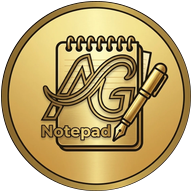
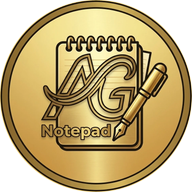
refactor: improve APK download handling and UI
- Implement error handling and state management for APK downloads in UpdateModal.
- Update CI/CD build scripts for versioning.
- Add icon generation utility enhancements.
- Update environment variable configuration.

diff --git a/android/app/src/main/java/com/abujar/agnotepad/MainActivity.kt b/android/app/src/main/java/com/abujar/agnotepad/MainActivity.kt
@@ -4,10 +4,13 @@ import android.Manifest
 import android.annotation.SuppressLint
 import android.app.Activity
 import android.app.DownloadManager
+import android.content.ClipData
 import android.content.ContentValues
 import android.content.Context
 import android.content.Intent
+import android.content.pm.PackageInfo
 import android.content.pm.PackageManager
+import android.content.pm.Signature
 import android.net.Uri
 import android.os.Build
 import android.os.Bundle
@@ -439,7 +442,7 @@ class MainActivity : Activity() {
                             }?.takeIf { it.isNotBlank() } ?: fallbackName
 
                             val dmUri = dm.getUriForDownloadedFile(downloadId)
-                            lastDownloadedUri = dmUri
+                            lastDownloadedUri = dmUri ?: localUriStr?.let { Uri.parse(it) }
                             lastDownloadedFileName = resolvedName
 
                             val finalBytes = total.coerceAtLeast(downloaded)
@@ -602,12 +605,53 @@ class MainActivity : Activity() {
         }
     }
 
+    private fun isZipApkHeader(file: File): Boolean {
+        return try {
+            file.inputStream().use { input ->
+                val header = ByteArray(4)
+                input.read(header) == 4 &&
+                    header[0] == 0x50.toByte() &&
+                    header[1] == 0x4B.toByte() &&
+                    header[2] == 0x03.toByte() &&
+                    header[3] == 0x04.toByte()
+            }
+        } catch (_: Exception) {
+            false
+        }
+    }
+
+    @Suppress("DEPRECATION")
+    private fun extractSignatureHexSet(info: PackageInfo?): Set<String> {
+        if (info == null) return emptySet()
+        val sigs: Array<Signature>? = if (Build.VERSION.SDK_INT >= Build.VERSION_CODES.P) {
+            val signingInfo = info.signingInfo
+            if (signingInfo == null) {
+                null
+            } else if (signingInfo.hasMultipleSigners()) {
+                signingInfo.apkContentsSigners
+            } else {
+                signingInfo.signingCertificateHistory
+            }
+        } else {
+            info.signatures
+        }
+        return sigs?.map { it.toCharsString() }?.toSet() ?: emptySet()
+    }
+
+    @Suppress("DEPRECATION")
+    private fun getPackageLongVersionCode(info: PackageInfo): Long {
+        return if (Build.VERSION.SDK_INT >= Build.VERSION_CODES.P) {
+            info.longVersionCode
+        } else {
+            info.versionCode.toLong()
+        }
+    }
+
     /**
-     * Stages the downloaded APK from DownloadManager/Download folder into our FileProvider-backed
-     * cache directory so PackageInstaller never fails with content://downloads permission or
-     * package parsing errors across Android 7-15 OEM launchers.
+     * Stages the downloaded APK into our FileProvider-backed cache directory and verifies
+     * ZIP header, package name, versionCode, and signing certificate before launching PackageInstaller.
      */
-    private fun resolveInstallableFileProviderUri(filenameHint: String): Uri? {
+    private fun resolveAndValidateStagedApk(filenameHint: String): Pair<Uri?, String?> {
         val dm = getSystemService(Context.DOWNLOAD_SERVICE) as DownloadManager
         val sourceUri: Uri? = lastDownloadedUri ?: if (lastDownloadId >= 0L) {
             dm.getUriForDownloadedFile(lastDownloadId)
@@ -633,34 +677,78 @@ class MainActivity : Activity() {
                         input.copyTo(output, 32768)
                     }
                 }
-                if (stagedApk.exists() && stagedApk.length() > 102400L) {
-                    return FileProvider.getUriForFile(this, "$packageName.fileprovider", stagedApk)
-                }
             } catch (_: Exception) {
                 stagedApk.delete()
             }
         }
 
-        // Secondary lookup directly in public Download directory (pre-Q or shared path)
-        @Suppress("DEPRECATION")
-        val publicFile = File(
-            Environment.getExternalStoragePublicDirectory(Environment.DIRECTORY_DOWNLOADS),
-            cleanName
-        )
-        if (publicFile.exists() && publicFile.length() > 102400L) {
-            return try {
-                publicFile.inputStream().use { input ->
-                    FileOutputStream(stagedApk).use { output ->
-                        input.copyTo(output, 32768)
+        if (!stagedApk.exists() || stagedApk.length() <= 102400L) {
+            // Secondary lookup directly in public Download directory
+            @Suppress("DEPRECATION")
+            val publicFile = File(
+                Environment.getExternalStoragePublicDirectory(Environment.DIRECTORY_DOWNLOADS),
+                cleanName
+            )
+            if (publicFile.exists() && publicFile.length() > 102400L) {
+                try {
+                    publicFile.inputStream().use { input ->
+                        FileOutputStream(stagedApk).use { output ->
+                            input.copyTo(output, 32768)
+                        }
                     }
+                } catch (_: Exception) {
+                    stagedApk.delete()
                 }
-                FileProvider.getUriForFile(this, "$packageName.fileprovider", stagedApk)
-            } catch (_: Exception) {
-                sourceUri
             }
         }
 
-        return sourceUri
+        if (!stagedApk.exists() || stagedApk.length() <= 102400L) {
+            return Pair(null, "Downloaded APK file not found or incomplete in Download folder")
+        }
+
+        if (!isZipApkHeader(stagedApk)) {
+            stagedApk.delete()
+            return Pair(null, "Downloaded file is not a valid APK package. Please try again.")
+        }
+
+        try {
+            @Suppress("DEPRECATION")
+            val sigFlag = if (Build.VERSION.SDK_INT >= Build.VERSION_CODES.P) {
+                PackageManager.GET_SIGNING_CERTIFICATES
+            } else {
+                PackageManager.GET_SIGNATURES
+            }
+            val archiveInfo = packageManager.getPackageArchiveInfo(stagedApk.absolutePath, sigFlag)
+                ?: return Pair(null, "Downloaded APK is corrupted and could not be parsed.")
+
+            if (archiveInfo.packageName != packageName) {
+                return Pair(null, "APK package ID mismatch (${archiveInfo.packageName}).")
+            }
+
+            val installedInfo = packageManager.getPackageInfo(packageName, sigFlag)
+            val archiveVerCode = getPackageLongVersionCode(archiveInfo)
+            val installedVerCode = getPackageLongVersionCode(installedInfo)
+            if (archiveVerCode < installedVerCode) {
+                return Pair(
+                    null,
+                    "Update blocked: downloaded APK build ($archiveVerCode) is older than installed ($installedVerCode)."
+                )
+            }
+
+            val installedSigs = extractSignatureHexSet(installedInfo)
+            val archiveSigs = extractSignatureHexSet(archiveInfo)
+            if (installedSigs.isNotEmpty() && archiveSigs.isNotEmpty() && installedSigs.intersect(archiveSigs).isEmpty()) {
+                return Pair(
+                    null,
+                    "Signature mismatch with your older installed build. Export JSON backup or sync Google Sheet, uninstall the current app once, and install Download/$cleanName."
+                )
+            }
+        } catch (_: Exception) {
+            // Proceed with FileProvider URI if OEM restricts getPackageArchiveInfo inspection
+        }
+
+        val providerUri = FileProvider.getUriForFile(this, "$packageName.fileprovider", stagedApk)
+        return Pair(providerUri, null)
     }
 
     private fun launchApkInstaller(uri: Uri) {
@@ -679,6 +767,7 @@ class MainActivity : Activity() {
 
             val installIntent = Intent(Intent.ACTION_VIEW).apply {
                 setDataAndType(uri, "application/vnd.android.package-archive")
+                clipData = ClipData.newRawUri("", uri)
                 addFlags(Intent.FLAG_GRANT_READ_URI_PERMISSION)
                 addFlags(Intent.FLAG_ACTIVITY_NEW_TASK)
             }
@@ -707,11 +796,11 @@ class MainActivity : Activity() {
         @JavascriptInterface
         fun installApk(filename: String) {
             executor.execute {
-                val installUri = resolveInstallableFileProviderUri(filename)
+                val (installUri, errorMsg) = resolveAndValidateStagedApk(filename)
                 if (installUri != null) {
                     runOnUiThread { launchApkInstaller(installUri) }
                 } else {
-                    notifyJsError("Downloaded APK file not found in Download folder")
+                    notifyJsError(errorMsg ?: "Downloaded APK file not found in Download folder")
                 }
             }
         }

diff --git a/scripts/generate-icons.js b/scripts/generate-icons.js
@@ -8,12 +8,12 @@ const BRAND_BG = { r: 242, g: 206, b: 93, alpha: 1 };
 async function createCircularMaskedLogo(size) {
   const circleMask = Buffer.from(
     `<svg width="${size}" height="${size}" viewBox="0 0 ${size} ${size}" xmlns="http://www.w3.org/2000/svg">
-      <circle cx="${size / 2}" cy="${size / 2}" r="${size / 2 - 1}" fill="#ffffff"/>
+      <circle cx="${size / 2}" cy="${size / 2}" r="${size / 2}" fill="#ffffff"/>
     </svg>`
   );
 
   return sharp(SOURCE_LOGO)
-    .extract({ left: 28, top: 27, width: 964, height: 964 })
+    .extract({ left: 26, top: 26, width: 968, height: 968 })
     .resize(size, size, { fit: 'cover' })
     .ensureAlpha()
     .composite([{ input: circleMask, blend: 'dest-in' }])
@@ -38,6 +38,21 @@ async function createFullBleedSafeIcon(size, innerScale = 0.8) {
     .toBuffer();
 }
 
+async function createRoundSafeIcon(size, innerScale = 0.86) {
+  const fullBleed = await createFullBleedSafeIcon(size, innerScale);
+  const circleMask = Buffer.from(
+    `<svg width="${size}" height="${size}" viewBox="0 0 ${size} ${size}" xmlns="http://www.w3.org/2000/svg">
+      <circle cx="${size / 2}" cy="${size / 2}" r="${size / 2}" fill="#ffffff"/>
+    </svg>`
+  );
+
+  return sharp(fullBleed)
+    .ensureAlpha()
+    .composite([{ input: circleMask, blend: 'dest-in' }])
+    .png()
+    .toBuffer();
+}
+
 async function main() {
   const publicDir = path.resolve('public');
   const androidResDir = path.resolve('android/app/src/main/res');
@@ -52,11 +67,11 @@ async function main() {
   fs.writeFileSync(path.join(publicDir, 'app-logo.png'), await createCircularMaskedLogo(192));
   fs.writeFileSync(path.join(publicDir, 'pwa-192x192.png'), await createCircularMaskedLogo(192));
   fs.writeFileSync(path.join(publicDir, 'pwa-512x512.png'), await createCircularMaskedLogo(512));
-  fs.writeFileSync(path.join(publicDir, 'pwa-maskable-512x512.png'), await createFullBleedSafeIcon(512, 0.8));
+  fs.writeFileSync(path.join(publicDir, 'pwa-maskable-512x512.png'), await createFullBleedSafeIcon(512, 0.78));
   fs.writeFileSync(path.join(publicDir, 'apple-touch-icon.png'), await createFullBleedSafeIcon(180, 0.86));
   fs.writeFileSync(path.join(publicDir, 'favicon.ico'), await createCircularMaskedLogo(64));
 
-  // Android mipmap icons
+  // Android legacy mipmap icons (inset safely so OEM circle/squircle masks never clip the ring)
   const densities = [
     { name: 'mipmap-mdpi', size: 48 },
     { name: 'mipmap-hdpi', size: 72 },
@@ -68,18 +83,19 @@ async function main() {
   for (const d of densities) {
     const dir = path.join(androidResDir, d.name);
     fs.mkdirSync(dir, { recursive: true });
-    const iconBuf = await createCircularMaskedLogo(d.size);
-    fs.writeFileSync(path.join(dir, 'ic_launcher.png'), iconBuf);
-    fs.writeFileSync(path.join(dir, 'ic_launcher_round.png'), iconBuf);
+    const squareBuf = await createFullBleedSafeIcon(d.size, 0.86);
+    const roundBuf = await createRoundSafeIcon(d.size, 0.88);
+    fs.writeFileSync(path.join(dir, 'ic_launcher.png'), squareBuf);
+    fs.writeFileSync(path.join(dir, 'ic_launcher_round.png'), roundBuf);
   }
 
-  // Android adaptive icon foreground (432x432 with 66% safe zone inner logo)
+  // Android adaptive icon foreground (432x432 with 244px inner logo inside 66dp/264px safe zone)
   const drawableDir = path.join(androidResDir, 'drawable');
   fs.mkdirSync(drawableDir, { recursive: true });
   const oldForegroundXml = path.join(drawableDir, 'ic_launcher_foreground.xml');
   if (fs.existsSync(oldForegroundXml)) fs.unlinkSync(oldForegroundXml);
 
-  const adaptiveInner = await createCircularMaskedLogo(288);
+  const adaptiveInner = await createCircularMaskedLogo(244);
   const adaptiveFg = await sharp({
     create: {
       width: 432,

diff --git a/src/components/UpdateModal.tsx b/src/components/UpdateModal.tsx
@@ -27,6 +27,7 @@ export const UpdateModal: React.FC<UpdateModalProps> = ({
   const [isComplete, setIsComplete] = useState(false);
   const [downloadedFileName, setDownloadedFileName] = useState<string | null>(null);
   const [downloadedBlobUrl, setDownloadedBlobUrl] = useState<string | null>(null);
+  const [errorMessage, setErrorMessage] = useState<string | null>(null);
 
   useEffect(() => {
     setTotalBytesState(apkSize || 0);
@@ -39,6 +40,7 @@ export const UpdateModal: React.FC<UpdateModalProps> = ({
       setDownloadedBytes(0);
       setIsComplete(false);
       setDownloadedFileName(null);
+      setErrorMessage(null);
       if (downloadedBlobUrl) {
         URL.revokeObjectURL(downloadedBlobUrl);
         setDownloadedBlobUrl(null);
@@ -66,6 +68,7 @@ export const UpdateModal: React.FC<UpdateModalProps> = ({
     setDownloadProgress(0);
     setDownloadedBytes(0);
     setIsComplete(false);
+    setErrorMessage(null);
 
     const androidBridge = (window as any).Android;
     if (
@@ -83,12 +86,15 @@ export const UpdateModal: React.FC<UpdateModalProps> = ({
         setDownloadProgress(100);
         if (totalBytes > 0) setDownloadedBytes(totalBytes);
         setIsComplete(true);
+        setErrorMessage(null);
         onShowToast(`Saved to Download/${savedName || filename}`, 'success');
       };
       (window as any).__onApkError = (errMsg: string) => {
+        const msg = errMsg || 'APK download failed.';
         setIsDownloading(false);
         setIsComplete(false);
-        onShowToast(errMsg || 'APK download failed.', 'error');
+        setErrorMessage(msg);
+        onShowToast(msg, 'error');
       };
 
       if (typeof androidBridge.downloadApkWithSize === 'function') {
@@ -200,6 +206,12 @@ export const UpdateModal: React.FC<UpdateModalProps> = ({
                 Download complete. Tap Update to install.
               </p>
             )}
+          </div>
+        )}
+
+        {errorMessage && (
+          <div className="p-3 rounded-xl bg-rose-500/10 border border-rose-500/30 text-xs text-rose-400 leading-relaxed">
+            {errorMessage}
           </div>
         )}
 
